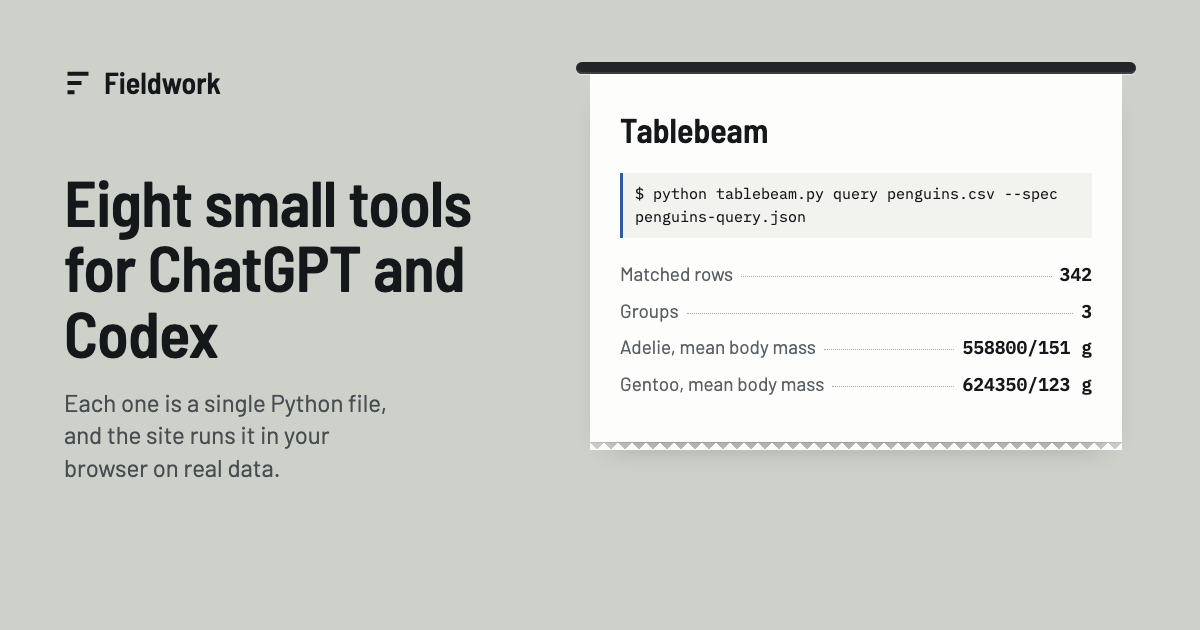
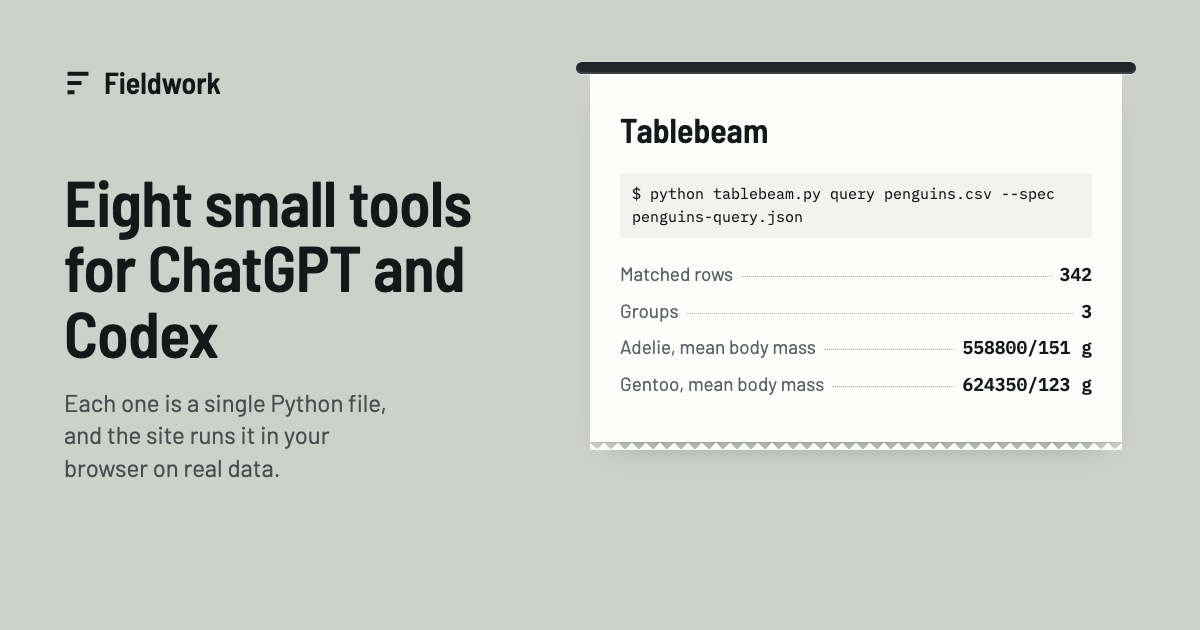
Mark the command prompt with colour instead of a side bar

Changed region(s): [[0.5242, 0.3016, 0.8942, 0.3619]]

diff --git a/site/style.css b/site/style.css
@@ -344,13 +344,12 @@ main { max-width: 1360px; margin: auto; padding: 0 var(--gutter); }
   margin-top: 8px;
   padding: 9px 12px;
   background: var(--paper-wash);
-  border-left: 3px solid var(--accent);
   font-family: var(--mono);
   font-size: 12.5px;
   line-height: 1.55;
   overflow-wrap: anywhere;
 }
-.step-command::before { content: '$ '; color: var(--paper-quiet); }
+.step-command::before { content: '$ '; color: var(--accent); font-weight: 600; }
 .step-meta {
   display: flex;
   align-items: center;
